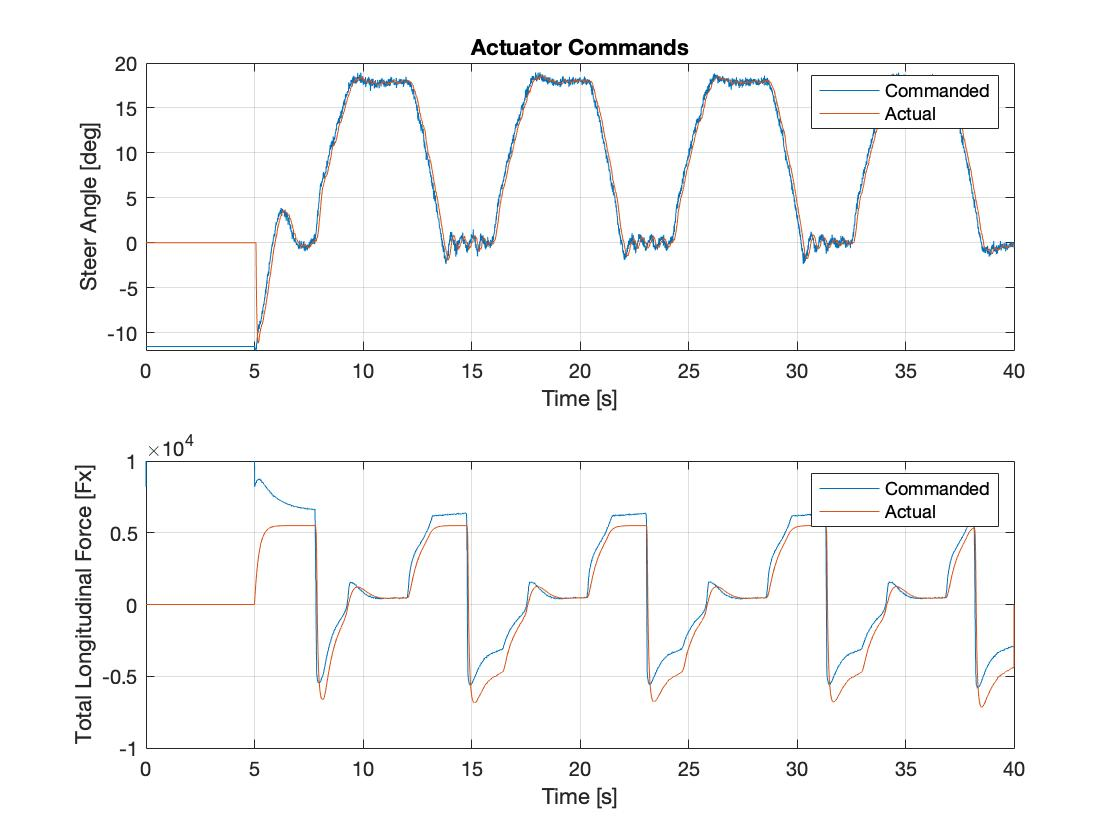
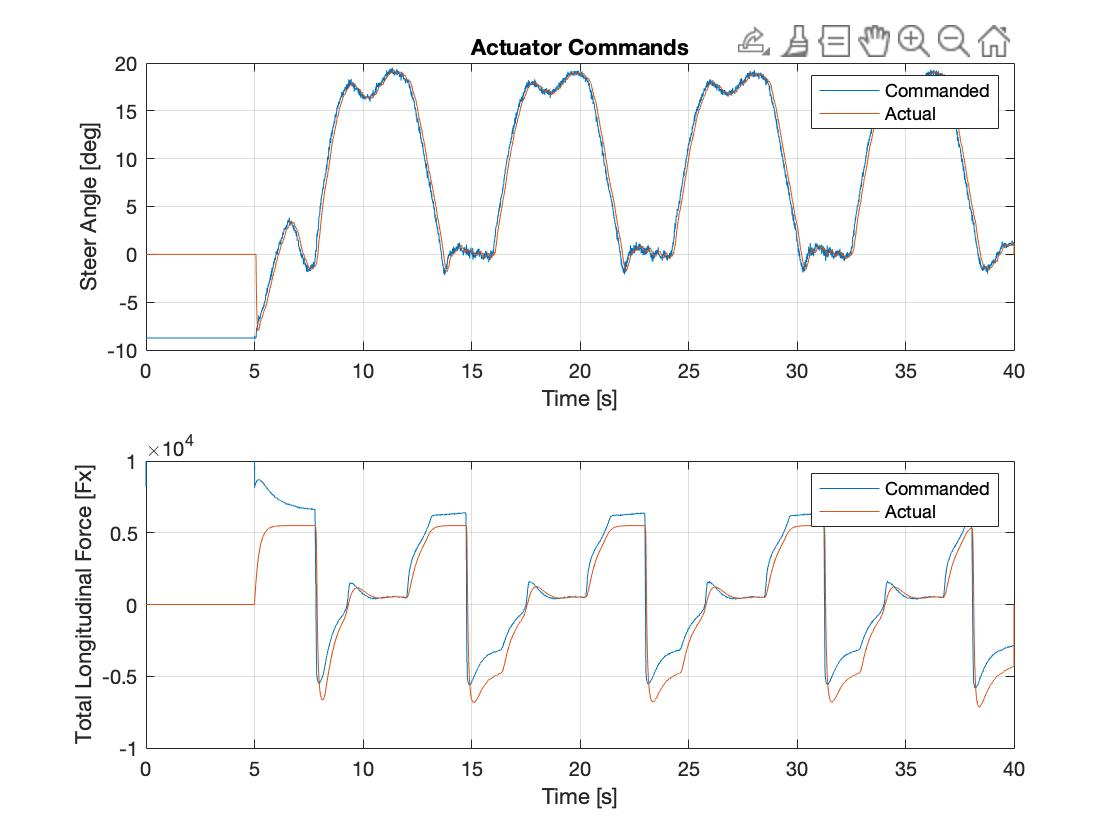
final gains?

diff --git a/group7_controller.m b/group7_controller.m
@@ -7,18 +7,15 @@ function [delta, Fx ] = group7_controller( s, e, dpsi, Ux, Uy, r, control_mode, 
 
 %NOTE (Satyan) - anything marked with a '??' needs better conceptual reasoning and
 %final adjustment
-dt = 0.001;
 persistent e_history;
 if isempty(e_history)
     e_history = 0;
 end
 
-if Ux > 1
+if Ux > 4
     e_history = e_history + e;
 end
 
-
-%e_history = [e_history, e];
 
 %--------------------------------------------------------------------------
 %% Constants
@@ -72,9 +69,9 @@ gains.k_la = 10000; %arbitrarily chosen, ??
 gains.x_la = 10; %arbitrarily chosen, ??
 gains.k_lo = m*2; %m*.04*g; %arbitrarily chosen, ??
 
-Kp = .5; 
+Kp = .65; 
 Kd = .3;  
-Ki = 0.01;
+Ki = 0.00975;
 
 
 %--------------------------------------------------------------------------
@@ -83,7 +80,6 @@ Ki = 0.01;
 %Use the Lateral Control Law to Calculate Delta
 
 if control_mode == 1 %Lookahead Controler
-    %started with linear stiffnesses, moved to fiala stiffnesses
     
     dpsi_ss=kappa*((m*a*Ux^2)/(L*r_tire.Ca_lin)-b); %nonlinear steady state dpsi (heading error), HW4
     K_grad=((Wf/f_tire.Ca_lin)-(Wr/r_tire.Ca_lin))/g; %understeer gradient, HW 2
@@ -96,14 +92,11 @@ else %Your second controller
     e_dot = Uy*cos(dpsi) + Ux*sin(dpsi);
     delta = -(Kp*e + Kd*e_dot + Ki*e_history);
     
-    %if the delta value goes over a certain value cap it at that value (for
-    %both negative and positive) Anti-windup
-%     value = deg2rad(20);
-%     if (delta > value)
-%         delta = value;
-%     elseif (delta < -value)
-%         delta = -value;
-%     end
+    % Anti-windup
+    if abs(e_history)>40
+        e_history = 0;
+    end
+    
 end
 
 % OBSERVATIONS FROM LATERAL ERROR CODE

diff --git a/HardSimulation.m b/HardSimulation.m
@@ -34,10 +34,10 @@ lenT = length(t_);
 load('project_path.mat')
 
 % Set simulation mode
-% sim_mode = 0;   % Nonlinear model from homework
+sim_mode = 0;   % Nonlinear model from homework
 % sim_mode = 1;   % Actuator dynamics only
 % sim_mode = 2;   % Actuator dynamics and noise on measurements
-sim_mode = 3;   % Actuator dynamics, noisy measurements, and hold period
+%sim_mode = 3;   % Actuator dynamics, noisy measurements, and hold period
 
 wait1 = waitbar(0, 'Simulation Initializing');
 j = 0;
